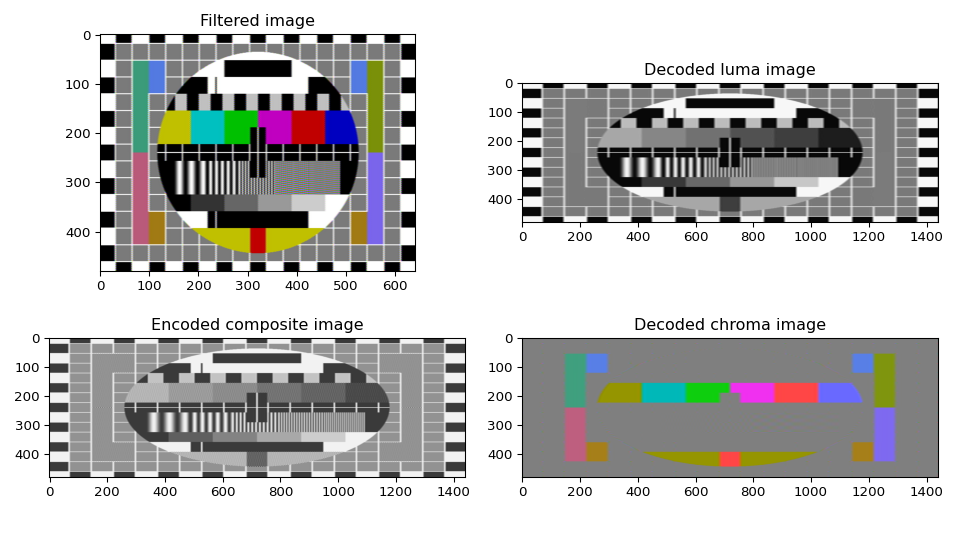
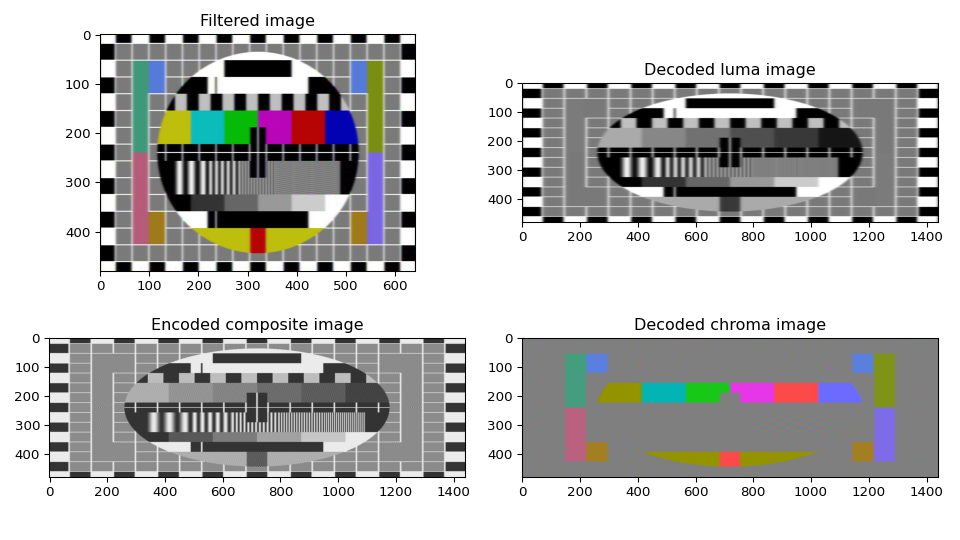
Add comb filtering

diff --git a/composite_filter.py b/composite_filter.py
@@ -24,18 +24,19 @@ from PIL import Image
 
 parser=argparse.ArgumentParser(
     description="yet another composite filter",
-    epilog="version 0.0.2")
+    epilog="version 0.1.0")
 parser.add_argument("input_image", type=str, help="input image")
 parser.add_argument("-dbg", "--debug", action="store_true", help="enable debug plot")
 parser.add_argument("-skp", "--skip-plot", action="store_true", help="skip plot")
 parser.add_argument("-nnv", "--neigbor-vertical", action="store_true", help="use nearest-neighbor scaling for vertical resolution")
-parser.add_argument("-pfd", "--prefilter-disable", action="store_true", help="disable image lowpassiing before encoding to composite")
+parser.add_argument("-pfd", "--prefilter-enable", action="store_true", help="enable luma lowpassing before encoding to composite")
 parser.add_argument("-prg", "--progressive", action="store_true", help="scale to 240 lines instead of 480")
 parser.add_argument("-isf", "--interlace-separate-frames", action="store_true", help="output one file per field")
 parser.add_argument("-irs", "--input-resolution-samplerate", action="store_true", help="use the image input's horizontal resolution as samplerate. minimum is 720 pixels")
 parser.add_argument("-war", "--wide-aspect-ratio", action="store_true", help="use wide aspect ratio for output")
 parser.add_argument("-pic", "--phase-invert-colorburst", action="store_true", help="invert phase of colorburst")
 parser.add_argument("-rsm", "--resolution-multiplier", type=int, help="multiply the samplerate by x. makes the image sharper at the cost of filtering time", default=2)
+parser.add_argument("-com", "--comb-filter", action="store_true", help="filter using 1d comb filter")
 
 args = parser.parse_args()
 
@@ -77,8 +78,8 @@ raster_href_start = raster_blanking_portion_length - raster_frontporch_length
 # this switches the x and y axis, but that's ok
 # it'll switch back when we convert back to an image
 if args.progressive:
-    image = image.resize((image.size[0], raster_v_res/2), resample=Image.Resampling.NEAREST if args.neigbor_vertical else Image.Resampling.LANCZOS)
-    image = image.resize((raster_h_res, raster_v_res/2), resample=Image.Resampling.LANCZOS)
+    image = image.resize((image.size[0], int(raster_v_res/2)), resample=Image.Resampling.NEAREST if args.neigbor_vertical else Image.Resampling.LANCZOS)
+    image = image.resize((raster_h_res, int(raster_v_res/2)), resample=Image.Resampling.LANCZOS)
     image = image.resize((raster_h_res, raster_v_res), resample=Image.Resampling.NEAREST)
 else:
     image = image.resize((image.size[0], raster_v_res), resample=Image.Resampling.NEAREST if args.neigbor_vertical else Image.Resampling.LANCZOS)
@@ -94,16 +95,16 @@ image_arr_copy = image_arr
 print("converting RGB to YUV...")
 image_arr = np.einsum('ij,klj->kli',RGB_to_YUV,image_arr, dtype=np.float64)
 
-if not args.prefilter_disable:
-    print("bandlimiting luma...")
-    b_luma, a_luma = signal.butter(2, raster_subcarrier_freq, 'low', fs=raster_samplerate, analog=False)
-    image_arr[..., 0] = signal.filtfilt(b_luma, a_luma, image_arr[..., 0])
+chroma_N, chroma_Wn = signal.buttord(1300000, 3600000, 2, 20, fs=raster_samplerate, analog=False)
+b_chroma, a_chroma = signal.butter(chroma_N, chroma_Wn, 'low', fs=raster_samplerate, analog=False)
 
-    print("bandlimiting chroma according to SMPTE 170M-2004...")
-    chroma_N, chroma_Wn = signal.buttord(1300000, 3600000, 2, 20, fs=raster_samplerate, analog=False)
-    b_chroma, a_chroma = signal.butter(chroma_N, chroma_Wn, 'low', fs=raster_samplerate, analog=False)
-    image_arr[..., 1] = signal.filtfilt(b_chroma, a_chroma, image_arr[..., 1])
-    image_arr[..., 2] = signal.filtfilt(b_chroma, a_chroma, image_arr[..., 2])
+if args.prefilter_enable:
+    print("bandlimiting luma...")
+    image_arr[..., 0] = signal.filtfilt(b_chroma, a_chroma, image_arr[..., 0])
+
+print("bandlimiting chroma according to SMPTE 170M-2004...")
+image_arr[..., 1] = signal.filtfilt(b_chroma, a_chroma, image_arr[..., 1])
+image_arr[..., 2] = signal.filtfilt(b_chroma, a_chroma, image_arr[..., 2])
 
 luma_pedestal = 7.5
 active_scanline_buffer = np.empty([raster_v_res, raster_h_res], np.float64)
@@ -113,41 +114,58 @@ active_scanline_buffer = np.pad(active_scanline_buffer, ((0, 0), (sample_pad, sa
 
 print("encoding to composite signal...")
 timepoint = lambda s, o: o + (2*np.pi*raster_subcarrier_freq*(((s + raster_href_start + 0.5)/raster_samplerate))) + (np.pi * int(args.phase_invert_colorburst))
-for line in range(active_scanline_buffer.shape[-0]):
+for line in range(active_scanline_buffer.shape[0]):
     for sample in range(raster_h_res):
         offset = (np.pi * int(bool(line % 4 & 0b10)))
         active_scanline_buffer[line, (sample + sample_pad)] = (0.925*image_arr[line, sample, 0] + luma_pedestal
-            + image_arr[line, sample, 1] * np.sin(timepoint(sample, offset))
-            + image_arr[line, sample, 2] * np.cos(timepoint(sample, offset)))
+            + (0.925*image_arr[line, sample, 1] * np.sin(timepoint(sample, offset)))
+            + (0.925*image_arr[line, sample, 2] * np.cos(timepoint(sample, offset)))
+        )
 
 YUV_buffer = np.empty((active_scanline_buffer.shape[0], active_scanline_buffer.shape[1], 3), np.float64)
 
 # set up filters
-q_factor = 1    # any lower than 1 and it'll become unstable
-
-print("seperating luma bandwidth...")
-b_notch, a_notch = signal.iirnotch(raster_subcarrier_freq, q_factor, raster_samplerate)
-YUV_buffer[:, :, 0] = signal.filtfilt(b_notch, a_notch, active_scanline_buffer)
+q_factor = 0.5    # any lower than 1 and it'll become unstable
 
 print("seperating chroma bandwidth...")
-b_peak, a_peak = signal.iirpeak(raster_subcarrier_freq, q_factor, raster_samplerate)
-chroma_buffer = signal.filtfilt(b_peak, a_peak, active_scanline_buffer)
+if (args.comb_filter):
+    # the entire buffer has both fields in it, so skip every other line so we can comb filter the same field's previous line
+    chroma_buffer = np.empty((active_scanline_buffer.shape[0], active_scanline_buffer.shape[1]), np.float64)
+    for line in range(active_scanline_buffer.shape[-0]):
+        if (line < 2):
+            chroma_buffer[line, :] = (active_scanline_buffer[line, :] - luma_pedestal) / 2
+        else:
+            chroma_buffer[line, :] = (active_scanline_buffer[line, :] - active_scanline_buffer[line - 2, :]) / 2
+else:
+    b_peak, a_peak = signal.iirpeak(raster_subcarrier_freq, q_factor, raster_samplerate)
+    chroma_buffer = signal.filtfilt(b_peak, a_peak, active_scanline_buffer)
+
+print("seperating luma bandwidth...")
+
+YUV_buffer[:, :, 0] = active_scanline_buffer - chroma_buffer
+if (args.comb_filter):
+    b_notch, a_notch = signal.iirnotch(raster_subcarrier_freq, q_factor, raster_samplerate)
+    YUV_buffer[:, :, 0] = signal.filtfilt(b_notch, a_notch, YUV_buffer[:, :, 0])
+
+
+print("normalizing luma and chroma...")
+YUV_buffer[:, :, :] -= luma_pedestal
+YUV_buffer /= 0.925
 
 print("quadrature amplitude demodulation...")
 for line in range(active_scanline_buffer.shape[-0]):
     for sample in range(active_scanline_buffer.shape[-1]):
         offset = (np.pi * int(bool(line % 4 & 0b10)))
-        YUV_buffer[line, sample, 1] = chroma_buffer[line, sample] * np.sin(timepoint(sample - sample_pad, offset)) * 2
-        YUV_buffer[line, sample, 2] = chroma_buffer[line, sample] * np.cos(timepoint(sample - sample_pad, offset)) * 2
+        YUV_buffer[line, sample, 1] = (chroma_buffer[line, sample]) * np.sin(timepoint(sample - sample_pad, offset)) * 2
+        YUV_buffer[line, sample, 2] = (chroma_buffer[line, sample]) * np.cos(timepoint(sample - sample_pad, offset)) * 2
 
-print("normalizing luma...")
-YUV_buffer[:, :, 0] -= luma_pedestal
-YUV_buffer[:, :, 0] /= 0.925
-
-print("normalizing and filtering chroma...")
-b_chroma, a_chroma = signal.butter(3, raster_subcarrier_freq, 'low', fs=raster_samplerate, analog=False)
-YUV_buffer[:, :, 1] = signal.filtfilt(b_chroma, a_chroma, YUV_buffer[:, :, 1])
-YUV_buffer[:, :, 2] = signal.filtfilt(b_chroma, a_chroma, YUV_buffer[:, :, 2])
+print("filtering chroma...")
+# chroma_N, chroma_Wn = signal.buttord(raster_subcarrier_freq-2000000, raster_subcarrier_freq, 3, 90, fs=raster_samplerate, analog=False)
+# b_chroma, a_chroma = signal.butter(chroma_N, chroma_Wn, 'low', fs=raster_samplerate, analog=False)
+# YUV_buffer[:, :, 1] = signal.filtfilt(b_chroma, a_chroma, YUV_buffer[:, :, 1] * 2)
+# YUV_buffer[:, :, 2] = signal.filtfilt(b_chroma, a_chroma, YUV_buffer[:, :, 2] * 2)
+YUV_buffer[..., 1] = signal.filtfilt(b_chroma, a_chroma, YUV_buffer[..., 1])
+YUV_buffer[..., 2] = signal.filtfilt(b_chroma, a_chroma, YUV_buffer[..., 2])
 
 print("converting YUV to RGB...")
 YUV_buffer = YUV_buffer[:, (sample_pad):(YUV_buffer.shape[1] - sample_pad), :]
@@ -186,7 +204,7 @@ if args.debug:
     chroma_plot_buffer = np.dstack((np.full((YUV_buffer.shape[0], YUV_buffer.shape[1]), 0.5), YUV_buffer[...,1], YUV_buffer[...,2]))
     chroma_plot_buffer = np.einsum('ij,klj->kli', np.linalg.inv(RGB_to_YUV), chroma_plot_buffer, dtype=np.float64)
     ax_chroma.set_title("Decoded chroma image")
-    ax_chroma.imshow(chroma_plot_buffer)
+    ax_chroma.imshow(chroma_plot_buffer, cmap='gray')
     plt.savefig("docs/example.png", dpi=96)
 else:
     ax = fig.add_subplot()
